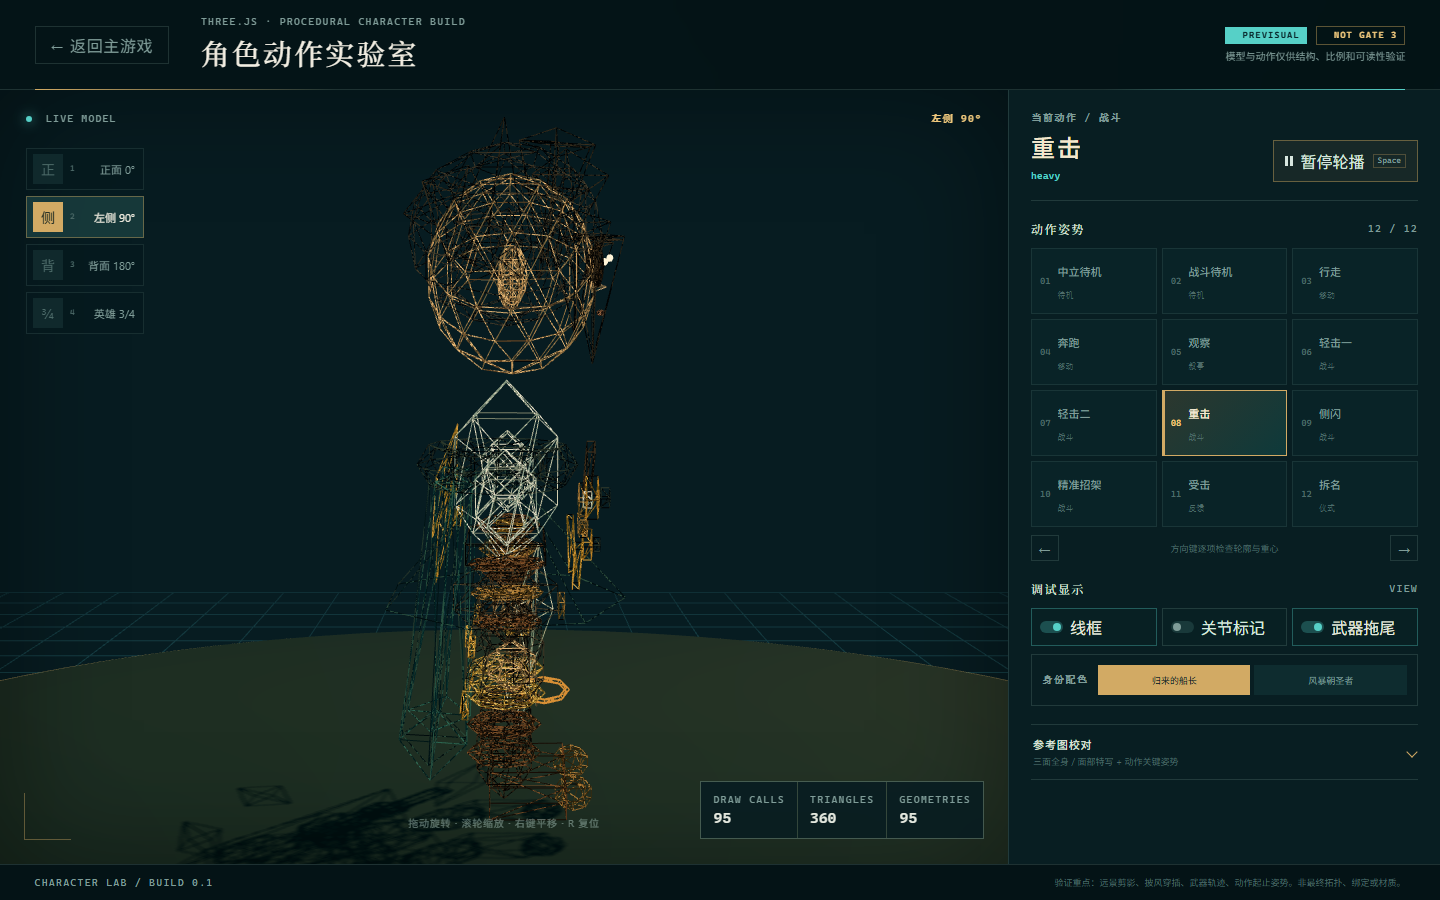
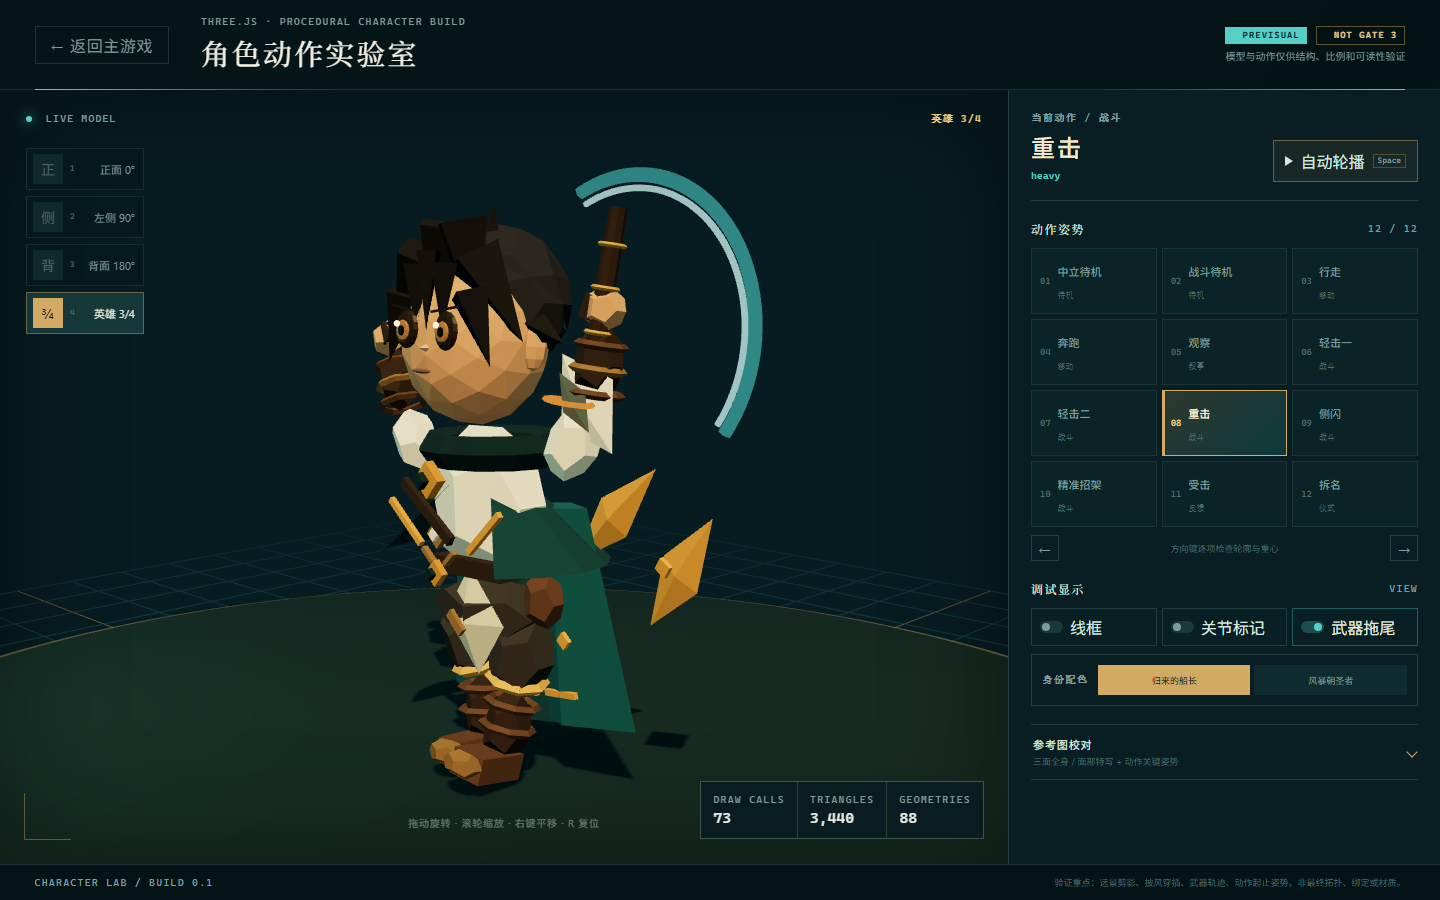
fix(odyssey): refine hero silhouette and lab framing
Raise the mantle, close the front hair silhouette, replace faceted tail pieces with a continuous ribbon, and make weapon trails action-timed.

Reframe all character-lab camera presets and refresh hero, wireframe, and full-slice browser evidence. Gate 2 and Gate 3 remain blocked.

diff --git a/games/odyssey-reimagined/src/HeroCharacterModel.tsx b/games/odyssey-reimagined/src/HeroCharacterModel.tsx
@@ -175,6 +175,7 @@ const HAIR_SPIKES: ReadonlyArray<{ position: Vec3; rotation: Vec3; scale: Vec3 }
   { position: [0.29, 0.2, 0.17], rotation: [0.05, 0.18, -2.52], scale: [1.05, 1.04, 1] },
   { position: [-0.31, 0.04, 0.27], rotation: [0, -0.16, 2.84], scale: [0.7, 0.78, 0.72] },
   { position: [-0.11, 0.2, 0.34], rotation: [0.02, -0.08, Math.PI], scale: [0.56, 0.68, 0.62] },
+  { position: [0, 0.23, 0.38], rotation: [0.02, 0, Math.PI], scale: [0.32, 0.82, 0.55] },
   { position: [0.08, 0.2, 0.35], rotation: [0.02, 0.02, Math.PI], scale: [0.56, 0.7, 0.62] },
   { position: [0.29, 0.05, 0.3], rotation: [0.02, 0.14, -2.78], scale: [0.7, 0.8, 0.72] },
   { position: [-0.42, 0.05, -0.01], rotation: [0.22, 0.28, 1.92], scale: [0.9, 1.0, 0.94] },
@@ -293,23 +294,23 @@ function Mantle({ wireframe, accent }: { wireframe: boolean; accent: string }) {
   return (
     <group>
       {/* The mantle wraps the back and shoulders but leaves the tunic readable at the front. */}
-      <mesh position={[0, -0.02, -0.015]} scale={[1, 0.88, 0.78]} castShadow>
+      <mesh position={[0, 0.26, -0.015]} scale={[1, 0.88, 0.78]} castShadow>
         <coneGeometry args={[0.72, 0.68, 12, 1, true, 0.76, Math.PI * 2 - 1.52]} />
         <Surface color={COLORS.teal} wireframe={wireframe} roughness={0.95} side={THREE.DoubleSide} />
       </mesh>
-      <mesh position={[0, 0.29, -0.04]} rotation={[Math.PI / 2, 0, 0]} scale={[1.05, 0.82, 1]}>
+      <mesh position={[0, 0.55, -0.04]} rotation={[Math.PI / 2, 0, 0]} scale={[1.05, 0.82, 1]}>
         <torusGeometry args={[0.35, 0.095, 5, 12]} />
         <Surface color={COLORS.tealDeep} wireframe={wireframe} roughness={0.95} />
       </mesh>
-      <mesh position={[-0.33, -0.12, 0.31]} rotation={[0, 0, -0.71]} scale={[0.34, 0.035, 0.03]}>
+      <mesh position={[-0.33, 0.16, 0.31]} rotation={[0, 0, -0.71]} scale={[0.34, 0.035, 0.03]}>
         <boxGeometry />
         <Surface color={accent} wireframe={wireframe} metalness={0.1} roughness={0.67} />
       </mesh>
-      <mesh position={[0.33, -0.12, 0.31]} rotation={[0, 0, 0.71]} scale={[0.34, 0.035, 0.03]}>
+      <mesh position={[0.33, 0.16, 0.31]} rotation={[0, 0, 0.71]} scale={[0.34, 0.035, 0.03]}>
         <boxGeometry />
         <Surface color={accent} wireframe={wireframe} metalness={0.1} roughness={0.67} />
       </mesh>
-      <group position={[0, 0.14, 0.39]}>
+      <group position={[0, 0.42, 0.39]}>
         <Buckle wireframe={wireframe} accent={accent} />
       </group>
     </group>
@@ -408,8 +409,59 @@ function Leg({
   );
 }
 
-function OarWeapon({ wireframe, accent, showTrail, attack }: { wireframe: boolean; accent: string; showTrail: boolean; attack: HeroLabAction }) {
-  const trailVisible = showTrail && ["light_1", "light_2", "heavy", "parry"].includes(attack);
+function WeaponTrail({
+  visible,
+  attack,
+  actionSerial,
+}: {
+  visible: boolean;
+  attack: HeroLabAction;
+  actionSerial: number;
+}) {
+  const trail = useRef<THREE.Group>(null);
+  const startedAt = useRef<number | null>(null);
+
+  useEffect(() => {
+    startedAt.current = null;
+    if (trail.current) trail.current.visible = false;
+  }, [attack, actionSerial]);
+
+  useFrame(({ clock }) => {
+    if (!trail.current) return;
+    if (startedAt.current === null) startedAt.current = clock.elapsedTime;
+    const elapsed = clock.elapsedTime - startedAt.current;
+    const attackSupportsTrail = ["light_1", "light_2", "heavy", "parry"].includes(attack);
+    const end = attack === "heavy" ? 0.82 : 0.6;
+    trail.current.visible = visible && attackSupportsTrail && elapsed >= 0.1 && elapsed <= end;
+  });
+
+  return (
+    <group ref={trail} position={[0.12, -0.58, -0.03]} rotation={[0, 0, -0.45]} visible={false}>
+      <mesh>
+        <torusGeometry args={[0.78, 0.035, 6, 40, Math.PI * 0.82]} />
+        <meshBasicMaterial color={COLORS.cyan} transparent opacity={0.56} depthWrite={false} toneMapped={false} />
+      </mesh>
+      <mesh position={[0, 0, -0.012]} scale={0.92}>
+        <torusGeometry args={[0.78, 0.018, 5, 40, Math.PI * 0.82]} />
+        <meshBasicMaterial color="#d7fffb" transparent opacity={0.74} depthWrite={false} toneMapped={false} />
+      </mesh>
+    </group>
+  );
+}
+
+function OarWeapon({
+  wireframe,
+  accent,
+  showTrail,
+  attack,
+  actionSerial,
+}: {
+  wireframe: boolean;
+  accent: string;
+  showTrail: boolean;
+  attack: HeroLabAction;
+  actionSerial: number;
+}) {
   return (
     <group position={[0, 0.45, 0.02]}>
       <mesh position={[0, -0.38, 0]} castShadow>
@@ -435,18 +487,7 @@ function OarWeapon({ wireframe, accent, showTrail, attack }: { wireframe: boolea
         <meshBasicMaterial color={accent} toneMapped={false} wireframe={wireframe} />
       </mesh>
 
-      {trailVisible && !wireframe && (
-        <group position={[0.12, -0.58, -0.03]} rotation={[0, 0, -0.45]}>
-          <mesh rotation={[0, 0, 0]}>
-            <torusGeometry args={[0.78, 0.035, 6, 40, Math.PI * 0.82]} />
-            <meshBasicMaterial color={COLORS.cyan} transparent opacity={0.56} depthWrite={false} toneMapped={false} />
-          </mesh>
-          <mesh position={[0, 0, -0.012]} scale={0.92}>
-            <torusGeometry args={[0.78, 0.018, 5, 40, Math.PI * 0.82]} />
-            <meshBasicMaterial color="#d7fffb" transparent opacity={0.74} depthWrite={false} toneMapped={false} />
-          </mesh>
-        </group>
-      )}
+      <WeaponTrail visible={showTrail && !wireframe} attack={attack} actionSerial={actionSerial} />
     </group>
   );
 }
@@ -471,17 +512,25 @@ function CapePanel({ wireframe, accent, offset = 0 }: { wireframe: boolean; acce
 }
 
 function GoldenTail({ wireframe, accent }: { wireframe: boolean; accent: string }) {
+  const ribbonShape = useMemo(() => {
+    const shape = new THREE.Shape();
+    shape.moveTo(-0.05, 0.16);
+    shape.bezierCurveTo(0.2, 0.11, 0.4, -0.08, 0.59, -0.28);
+    shape.bezierCurveTo(0.72, -0.42, 0.88, -0.48, 1.03, -0.45);
+    shape.lineTo(0.88, -0.64);
+    shape.bezierCurveTo(0.7, -0.62, 0.56, -0.52, 0.43, -0.38);
+    shape.bezierCurveTo(0.25, -0.18, 0.11, -0.05, -0.08, 0);
+    shape.closePath();
+    return shape;
+  }, []);
+
   return (
     <group>
-      <mesh position={[0.35, -0.12, 0]} rotation={[0, 0, -1.02]} scale={[0.16, 0.58, 0.06]} castShadow>
-        <octahedronGeometry args={[0.78, 0]} />
+      <mesh position={[0, 0, -0.025]} castShadow>
+        <extrudeGeometry args={[ribbonShape, { depth: 0.05, bevelEnabled: false, steps: 1 }]} />
         <Surface color={COLORS.ochre} wireframe={wireframe} roughness={0.9} />
       </mesh>
-      <mesh position={[0.76, -0.42, 0]} rotation={[0, 0, -0.82]} scale={[0.17, 0.52, 0.055]} castShadow>
-        <octahedronGeometry args={[0.78, 0]} />
-        <Surface color={COLORS.ochre} wireframe={wireframe} roughness={0.9} />
-      </mesh>
-      <mesh position={[0.72, -0.37, 0.065]} rotation={[0, 0, Math.PI / 4]} scale={[0.075, 0.075, 0.025]}>
+      <mesh position={[0.56, -0.3, 0.052]} rotation={[0, 0, Math.PI / 4]} scale={[0.065, 0.065, 0.025]}>
         <boxGeometry />
         <Surface color={accent} wireframe={wireframe} roughness={0.72} />
       </mesh>
@@ -867,7 +916,13 @@ export function HeroCharacterModel({
               forearmRef={rightForearm}
               weapon={
                 <group ref={weapon} position={[0, -0.49, 0.015]}>
-                  <OarWeapon wireframe={wireframe} accent={accent} showTrail={showWeaponTrail} attack={action} />
+                  <OarWeapon
+                    wireframe={wireframe}
+                    accent={accent}
+                    showTrail={showWeaponTrail}
+                    attack={action}
+                    actionSerial={actionSerial}
+                  />
                 </group>
               }
             />

diff --git a/games/odyssey-reimagined/src/CharacterLab.tsx b/games/odyssey-reimagined/src/CharacterLab.tsx
@@ -19,10 +19,10 @@ type RenderMetrics = {
 };
 
 const CAMERA_PRESETS: Record<CameraPreset, { label: string; short: string; position: [number, number, number] }> = {
-  front: { label: "正面 0°", short: "正", position: [0, 2.15, 6.1] },
-  left: { label: "左侧 90°", short: "侧", position: [-6.1, 2.15, 0] },
-  back: { label: "背面 180°", short: "背", position: [0, 2.15, -6.1] },
-  "three-quarter": { label: "英雄 3/4", short: "¾", position: [4.55, 2.65, 4.55] },
+  front: { label: "正面 0°", short: "正", position: [0, 2.28, 6.8] },
+  left: { label: "左侧 90°", short: "侧", position: [-6.8, 2.28, 0] },
+  back: { label: "背面 180°", short: "背", position: [0, 2.28, -6.8] },
+  "three-quarter": { label: "英雄 3/4", short: "¾", position: [5.1, 2.82, 5.1] },
 };
 
 const DEFAULT_ACTION = HERO_LAB_ACTIONS[0]?.id ?? ("idle_neutral" as HeroLabAction);
@@ -31,7 +31,7 @@ function LabCamera({ preset, revision }: { preset: CameraPreset; revision: numbe
   const { camera, gl } = useThree();
   const controlsRef = useRef<OrbitControls | null>(null);
   const goalPosition = useRef(new THREE.Vector3(...CAMERA_PRESETS[preset].position));
-  const goalTarget = useRef(new THREE.Vector3(0, 1.55, 0));
+  const goalTarget = useRef(new THREE.Vector3(0, 1.62, 0));
   const transitioning = useRef(true);
 
   useEffect(() => {
@@ -40,7 +40,7 @@ function LabCamera({ preset, revision }: { preset: CameraPreset; revision: numbe
     controls.dampingFactor = 0.075;
     controls.enablePan = true;
     controls.screenSpacePanning = true;
-    controls.minDistance = 3.7;
+    controls.minDistance = 4.1;
     controls.maxDistance = 10;
     controls.minPolarAngle = Math.PI * 0.16;
     controls.maxPolarAngle = Math.PI * 0.82;
@@ -55,7 +55,7 @@ function LabCamera({ preset, revision }: { preset: CameraPreset; revision: numbe
 
   useEffect(() => {
     goalPosition.current.set(...CAMERA_PRESETS[preset].position);
-    goalTarget.current.set(0, 1.55, 0);
+    goalTarget.current.set(0, 1.62, 0);
     transitioning.current = true;
   }, [preset, revision]);
 
